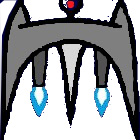
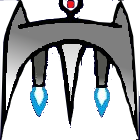
taustan liike

diff --git a/InvadersDefenderAdventure/src/main/java/invadersdefender/gui/PelinPiirtoalusta.java b/InvadersDefenderAdventure/src/main/java/invadersdefender/gui/PelinPiirtoalusta.java
@@ -11,14 +11,18 @@ import invadersdefender.sovelluslogiikka.huipputulokset.Pelaaja;
 import java.awt.Color;
 import java.awt.Graphics;
 import java.awt.Image;
+import java.awt.image.BufferedImage;
 import java.net.URL;
 import java.util.HashMap;
 import java.util.Map;
 import java.util.PriorityQueue;
 import javax.imageio.ImageIO;
+import javax.swing.JFrame;
+import javax.swing.JOptionPane;
 import javax.swing.JPanel;
 
 /**
+ * Luokka tarjoaa mahdollisuuden piirtää kuvina kostruktiossa annetun pelin
  *
  * @author emivo
  */
@@ -27,7 +31,8 @@ public class PelinPiirtoalusta extends JPanel {
     private Peli peli;
     private Pelikentta pelikentta;
     private int palojenKoko;
-    private Map<String, Image> kuvat;
+    private Map<String, BufferedImage> kuvat;
+    private JFrame ikkuna;
 
     public PelinPiirtoalusta(Peli peli, int palojenKoko) {
         this.peli = peli;
@@ -48,10 +53,14 @@ public class PelinPiirtoalusta extends JPanel {
             piirraPause(graphics);
         } else if (peli.getTilanne() == Pelitilanne.TULOKSET) {
             piirraHuipputulokset(graphics);
-        }else {
+        } else {
             piirraPeliLoppu(graphics);
         }
 
+    }
+
+    public void setIkkuna(JFrame ikkuna) {
+        this.ikkuna = ikkuna;
     }
 
     private void piirraPeli(Graphics graphics) {
@@ -97,7 +106,7 @@ public class PelinPiirtoalusta extends JPanel {
         return getClass().getResource(tiedostonNimi);
     }
 
-    private Image lueKuva(URL osoite) {
+    private BufferedImage lueKuva(URL osoite) {
         try {
             return ImageIO.read(osoite);
         } catch (Exception e) {
@@ -109,7 +118,7 @@ public class PelinPiirtoalusta extends JPanel {
         if (kuva != null) {
             graphics.drawImage(kuva, x, y, koko, koko, this);
         } else {
-            // KÄSITTELE VIRHE
+            virhe();
         }
     }
 
@@ -117,27 +126,51 @@ public class PelinPiirtoalusta extends JPanel {
         piirraLiikkuva(graphics, pelikentta.getOmaAlus(), kuvat.get("omaalus"));
     }
 
+    /**
+     * Metodi päivittää piirroksen ajan tasalle
+     */
     public void paivitaPiirto() {
         super.repaint();
     }
 
     private void piirraPeliLoppu(Graphics graphics) {
         graphics.setColor(Color.red);
-        int paikka = (pelikentta.getPelikentanKoko() + palojenKoko) / 2;
-        graphics.drawString("Game Over", paikka, paikka);
+        int paikkaX = (pelikentta.getPelikentanLeveys() + palojenKoko) / 2;
+        int paikkaY = (pelikentta.getPelikentanKorkeus() + palojenKoko) / 2;
+        graphics.drawString("Game Over", paikkaX, paikkaY);
         String pisteet = "Your score: " + peli.getPisteet();
-        graphics.drawString(pisteet, paikka, paikka + palojenKoko + 3);
-        graphics.drawString("Press enter to start again", paikka, paikka + (palojenKoko + 3) * 2);
+        graphics.drawString(pisteet, paikkaX, paikkaY + palojenKoko + 3);
+        graphics.drawString("Press enter to start again", paikkaX, paikkaY + (palojenKoko + 3) * 2);
     }
 
     private void piirraPause(Graphics graphics) {
         graphics.setColor(Color.red);
-        int paikka = (pelikentta.getPelikentanKoko() + palojenKoko) / 2;
-        graphics.drawString("Pause. Press enter to continue", paikka, paikka);
+        int paikkaX = (pelikentta.getPelikentanLeveys() + palojenKoko) / 2;
+        int paikkaY = (pelikentta.getPelikentanKorkeus() + palojenKoko) / 2;
+        graphics.drawString("Pause. Press enter to continue", paikkaX, paikkaY);
     }
 
     private void piirraTausta(Graphics graphics) {
-        piirraKuva(graphics, 0, 0, pelikentta.getPelikentanKoko() * palojenKoko, kuvat.get("tausta"));
+        try {
+            BufferedImage tausta = kuvat.get("tausta");
+            if (peli.getTaustanLeikkauskohta() > tausta.getHeight()) {
+                peli.setTaustanLeikkauskohta(0);
+            }
+            graphics.drawImage(tausta,
+                    0, 0,
+                    pelikentta.getPelikentanLeveys() * palojenKoko, peli.getTaustanLeikkauskohta(),
+                    0, tausta.getHeight() - peli.getTaustanLeikkauskohta(),
+                    tausta.getWidth(), tausta.getHeight(),
+                    this);
+            graphics.drawImage(tausta,
+                    0, peli.getTaustanLeikkauskohta(),
+                    pelikentta.getPelikentanLeveys() * palojenKoko, pelikentta.getPelikentanKorkeus() * palojenKoko,
+                    0, 0,
+                    tausta.getWidth(), tausta.getHeight() - peli.getTaustanLeikkauskohta(),
+                    this);
+        } catch (Exception e) {
+            virhe();
+        }
     }
 
     private void piirraLiikkuva(Graphics graphics, Liikkuva liikkuva, Image kuva) {
@@ -152,15 +185,16 @@ public class PelinPiirtoalusta extends JPanel {
         kuvat.put("vihollisolio", lueKuva(haeOsoite("/vihollisolio.png")));
     }
 
-    public void piirraHuipputulokset(Graphics graphics) {
+    private void piirraHuipputulokset(Graphics graphics) {
         graphics.setColor(Color.red);
-        int paikka = (pelikentta.getPelikentanKoko() + palojenKoko) / 2;
+        int paikkaX = (pelikentta.getPelikentanLeveys() + palojenKoko) / 2;
+        int paikkaY = (pelikentta.getPelikentanKorkeus() + palojenKoko) / 2;
         PriorityQueue<Pelaaja> uusi = new PriorityQueue<>();
         Pelaaja pelaaja = peli.getHuipputulokset().getTulokset().poll();
         int i = 1;
         while (pelaaja != null) {
             uusi.add(pelaaja);
-            graphics.drawString(luoRivi(i, pelaaja), paikka, paikka + (i-1) * 2*palojenKoko);
+            graphics.drawString(luoRivi(i, pelaaja), paikkaX, paikkaY + (i - 1) * 2 * palojenKoko);
             pelaaja = peli.getHuipputulokset().getTulokset().poll();
             i++;
         }
@@ -176,5 +210,14 @@ public class PelinPiirtoalusta extends JPanel {
         sb.append(" ");
         sb.append(pelaaja.getTulos());
         return sb.toString();
+    }
+
+    private void virhe() {
+        JOptionPane.showMessageDialog(ikkuna,
+                "Some graphic components are missing.\n"
+                        + "Try again later.",
+                "Fatal error",
+                JOptionPane.ERROR_MESSAGE);
+        peli.peliLoppuu();
     }
 }

diff --git a/InvadersDefenderAdventure/src/main/java/invadersdefender/sovelluslogiikka/Pelikentta.java b/InvadersDefenderAdventure/src/main/java/invadersdefender/sovelluslogiikka/Pelikentta.java
@@ -16,12 +16,14 @@ public class Pelikentta {
     private Alus omaAlus;
     private final List<Vihollisolio> viholliset;
     private final List<Ammus> ammukset;
-    private final int pelikentanKoko;
+    private final int pelikentanLeveys;
+    private final int pelikentanKorkeus;
     private static final int ALUKSIENKOKO = 3;
 
     public Pelikentta(int pelikentanSivunpituus, Peli peli) {
         this.peli = peli;
-        this.pelikentanKoko = pelikentanSivunpituus * ALUKSIENKOKO;
+        this.pelikentanKorkeus = pelikentanSivunpituus * ALUKSIENKOKO;
+        this.pelikentanLeveys = (int) (pelikentanKorkeus * 2 / 3);
         this.omaAlus = luoOmaAlus();
 
         this.viholliset = new ArrayList<>();
@@ -29,7 +31,7 @@ public class Pelikentta {
     }
 
     private Alus luoOmaAlus() {
-        return new Alus(this.pelikentanKoko / 2, this.pelikentanKoko - (ALUKSIENKOKO + 1), ALUKSIENKOKO);
+        return new Alus(this.pelikentanLeveys / 2, this.pelikentanKorkeus - (ALUKSIENKOKO + 1), ALUKSIENKOKO);
     }
 
     public List<Ammus> getAmmukset() {
@@ -40,8 +42,12 @@ public class Pelikentta {
         return viholliset;
     }
 
-    public int getPelikentanKoko() {
-        return pelikentanKoko;
+    public int getPelikentanLeveys() {
+        return pelikentanLeveys;
+    }
+
+    public int getPelikentanKorkeus() {
+        return pelikentanKorkeus;
     }
 
     public Alus getOmaAlus() {
@@ -73,7 +79,7 @@ public class Pelikentta {
         Iterator<Vihollisolio> iterator = viholliset.iterator();
         while (iterator.hasNext()) {
             Vihollisolio vihollinen = iterator.next();
-            if (vihollinen.osuukoAlukseen(ammus)) {
+            if (vihollinen.osuukoAlukseen(ammus) && (ammus.getSuunta() == Suunta.YLOS)) {
                 iterator.remove();
                 peli.lisaaPisteita();
                 return true;
@@ -87,7 +93,7 @@ public class Pelikentta {
         // KESKEN
         int esiinTulevienVihollisteMaara = 5;
         // asetetaan viholliset pelikentältä liian ylös peli kentästä mistä ne voivat sitten "ryömiä esiin"
-        int ensimmaisenAluksenX = (int) (pelikentanKoko / 2) - (esiinTulevienVihollisteMaara - 1) * ALUKSIENKOKO;
+        int ensimmaisenAluksenX = (int) (pelikentanLeveys / 2) - (esiinTulevienVihollisteMaara - 1) * ALUKSIENKOKO;
         for (int i = 0; i < esiinTulevienVihollisteMaara; i++) {
             int x = ensimmaisenAluksenX + (ALUKSIENKOKO * 2 * i);
             int y = -1 * (esiinTulevienVihollisteMaara * ALUKSIENKOKO) + i * ALUKSIENKOKO;
@@ -102,8 +108,8 @@ public class Pelikentta {
         while (iterator.hasNext()) {
             Ammus ammus = iterator.next();
             ammus.liiku();
-            // leveyssuuntaa ei tarvitse tarkistaa sillÃ¤ ammuksien ei tulisi poistua kentän reunalta
-            if (ammus.getSijainti().getY() < 0 || ammus.getSijainti().getY() > pelikentanKoko) {
+            // ammukset eivät voi poistua kentänreunalta
+            if (ammus.getSijainti().getY() < 0 || ammus.getSijainti().getY() > pelikentanKorkeus) {
                 iterator.remove();
             } else if (osuukoAmmus(ammus)) {
                 iterator.remove();
@@ -111,13 +117,14 @@ public class Pelikentta {
         }
     }
 
-    private boolean osuukoAmmukset() {
-        for (Ammus ammus : ammukset) {
+    private void osuukoAmmukset() {
+        Iterator<Ammus> iterator = ammukset.iterator();
+        while (iterator.hasNext()) {
+            Ammus ammus = iterator.next();
             if (osuukoAmmus(ammus)) {
-                return true;
+                iterator.remove();
             }
         }
-        return false;
     }
 
     public void omaAlusLiiku(Suunta suunta) {
@@ -138,20 +145,20 @@ public class Pelikentta {
                 Vihollisolio vihollinen = iteraattori.next();
                 if (onkoViimeinenVihollinenKentalla) {
                     valitseVihollistenSuunta(vihollinen);
-                    if (vihollinen.getY() > pelikentanKoko) {
+                    if (vihollinen.getY() > pelikentanKorkeus) {
                         iteraattori.remove();
                     }
                 } else {
                     vihollinen.liiku(Suunta.ALAS);
                 }
             }
-            
+
             osuukoAmmukset();
             if (osuukoVihollisetOmaanAlukseen()) {
                 peli.peliLoppuu();
             }
             if (!viholliset.isEmpty()) {
-                if (viholliset.get(viholliset.size() - 1).getY() > pelikentanKoko) {
+                if (viholliset.get(viholliset.size() - 1).getY() > pelikentanKorkeus) {
                     viholliset.remove(viholliset.size() - 1);
                 }
             }
@@ -186,7 +193,7 @@ public class Pelikentta {
     }
 
     private void kasitteleKunMenossaOikealle(Vihollisolio vihollinen) {
-        if (vihollinen.getX() + ALUKSIENKOKO == pelikentanKoko - 1) {
+        if (vihollinen.getX() + ALUKSIENKOKO == pelikentanLeveys - 1) {
             kaannaVihollinen(vihollinen, Suunta.VASEN);
         } else {
             vihollinen.liiku();
@@ -214,8 +221,8 @@ public class Pelikentta {
     private boolean voikoLiikkua(Alus alus, Suunta suunta) {
         Pala uusiSijainti = new Pala(alus.getX(), alus.getY());
         uusiSijainti.liiku(suunta);
-        return !(uusiSijainti.getX() < 0 || uusiSijainti.getX() + alus.getKoko() > pelikentanKoko
-                || uusiSijainti.getY() < 0 || uusiSijainti.getY() + alus.getKoko() > pelikentanKoko);
+        return !(uusiSijainti.getX() < 0 || uusiSijainti.getX() + alus.getKoko() > pelikentanLeveys
+                || uusiSijainti.getY() < 0 || uusiSijainti.getY() + alus.getKoko() > pelikentanKorkeus);
     }
 
     void kaynnistaUudelleen() {

diff --git a/InvadersDefenderAdventure/src/main/java/invadersdefender/sovelluslogiikka/Peli.java b/InvadersDefenderAdventure/src/main/java/invadersdefender/sovelluslogiikka/Peli.java
@@ -24,6 +24,7 @@ public class Peli extends Timer implements ActionListener {
     private static final int LIIKKUMISVIIVE = 5;
     private Pelitilanne tilanne;
     private int pisteet;
+    private int taustanLeikkauskohta;
 
     public Peli(int pelikentanSivunpituus) {
         super(100, null);
@@ -33,6 +34,7 @@ public class Peli extends Timer implements ActionListener {
         this.vihollisetAmpuuViiveLaskuri = AMPUMISVIIVE;
         this.vihollisetLiikkuViiveLaskuri = LIIKKUMISVIIVE;
         this.huipputulokset = new Huipputulokset();
+        this.taustanLeikkauskohta = 0;
 
         this.pisteet = 0;
         this.tilanne = Pelitilanne.KAYNNISSA;
@@ -51,6 +53,14 @@ public class Peli extends Timer implements ActionListener {
 
     public int getPisteet() {
         return pisteet;
+    }
+
+    public int getTaustanLeikkauskohta() {
+        return taustanLeikkauskohta;
+    }
+
+    public void setTaustanLeikkauskohta(int taustanLeikkauskohta) {
+        this.taustanLeikkauskohta = taustanLeikkauskohta;
     }
 
     public Huipputulokset getHuipputulokset() {
@@ -113,6 +123,7 @@ public class Peli extends Timer implements ActionListener {
             setInitialDelay(getDelay() - pisteet / 10);
         }
         paivita();
+        taustanLeikkauskohta++;
     }
 
     public void peliLoppuu() {
@@ -126,7 +137,7 @@ public class Peli extends Timer implements ActionListener {
                     JOptionPane.PLAIN_MESSAGE,
                     null,
                     null,
-                    "Silver Surfer");
+                    "Galatic Warrior");
             if (input != null) {
                 huipputulokset.lisaaTulos(input, pisteet);
             } else {

diff --git a/InvadersDefenderAdventure/src/test/java/invadersdefender/sovelluslogiikka/PelikenttaTest.java b/InvadersDefenderAdventure/src/test/java/invadersdefender/sovelluslogiikka/PelikenttaTest.java
@@ -69,11 +69,11 @@ public class PelikenttaTest {
     public void omaAlusEiPoistuKentalta() {
         Alus omaAlus = pelikentta.getOmaAlus();
 
-        int matkaPoisAlhaalta = pelikentta.getPelikentanKoko() - omaAlus.getY() + omaAlus.getKoko();
+        int matkaPoisAlhaalta = pelikentta.getPelikentanKorkeus()- omaAlus.getY() + omaAlus.getKoko();
         for (int i = 0; i <= matkaPoisAlhaalta; i++) {
             pelikentta.omaAlusLiiku(Suunta.ALAS);
         }
-        assertTrue("Oma alus poistuu pelikentän alareunan yli", omaAlus.getY() + omaAlus.getKoko() <= pelikentta.getPelikentanKoko());
+        assertTrue("Oma alus poistuu pelikentän alareunan yli", omaAlus.getY() + omaAlus.getKoko() <= pelikentta.getPelikentanKorkeus());
         int matkaYlhaaltaPois = omaAlus.getY();
         for (int i = 0; i <= matkaYlhaaltaPois; i++) {
             pelikentta.omaAlusLiiku(Suunta.YLOS);
@@ -84,11 +84,11 @@ public class PelikenttaTest {
             pelikentta.omaAlusLiiku(Suunta.VASEN);
         }
         assertTrue("Oma alus poistuu pelikentän vasemmanreunan yli", omaAlus.getX() >= 0);
-        int matkaOikealtaUlos = pelikentta.getPelikentanKoko() - omaAlus.getX() + omaAlus.getKoko();
+        int matkaOikealtaUlos = pelikentta.getPelikentanLeveys()- omaAlus.getX() + omaAlus.getKoko();
         for (int i = 0; i < matkaOikealtaUlos; i++) {
             pelikentta.omaAlusLiiku(Suunta.OIKEA);
         }
-        assertTrue("Oma alus poistuu pelikentän oikeanreunan yli", omaAlus.getX() <= pelikentta.getPelikentanKoko());
+        assertTrue("Oma alus poistuu pelikentän oikeanreunan yli", omaAlus.getX() <= pelikentta.getPelikentanLeveys());
     }
 
     @Test

diff --git a/InvadersDefenderAdventure/src/main/java/invadersdefender/gui/Kayttoliittyma.java b/InvadersDefenderAdventure/src/main/java/invadersdefender/gui/Kayttoliittyma.java
@@ -26,13 +26,15 @@ public class Kayttoliittyma implements Runnable {
     @Override
     public void run() {
         ikkuna = new JFrame("Invaders defender adventures");
-        int ikkunanKoko = peli.getPelikentta().getPelikentanKoko() * palojenKoko + 5;
+        int ikkunanLeveys = peli.getPelikentta().getPelikentanLeveys()* palojenKoko + 5;
+        int ikkunanKorkeus = peli.getPelikentta().getPelikentanKorkeus() * palojenKoko + 40;
         peli.setIkkuna(ikkuna);
+        piirtoalusta.setIkkuna(ikkuna);
         
         ikkuna.setDefaultCloseOperation(WindowConstants.EXIT_ON_CLOSE);
 
         rakennaIkkunanKomponentit(ikkuna.getContentPane());
-        ikkuna.setPreferredSize(new Dimension(ikkunanKoko, ikkunanKoko + ikkuna.getJMenuBar().getHeight() + 40));
+        ikkuna.setPreferredSize(new Dimension(ikkunanLeveys, ikkunanKorkeus + ikkuna.getJMenuBar().getHeight() ));
 
         ikkuna.pack();
         ikkuna.setVisible(true);

diff --git a/dokumentointi/tuntikirjaus.md b/dokumentointi/tuntikirjaus.md
@@ -10,5 +10,6 @@
 |11.11.|Grafiikkaa| 2 tuntia|
 |13.11.|Testien rivikattavuutta parannettu| 0,5 tuntia|
 |18.11.|Paljon kaikkea, huipputulokset, peli pilkottu pelikentäksi ja peliksi| 4-6 tuntia|
+|19.11.| Taustan liike ja javadoc aloitettu | 1,5 tuntia|
 
 
